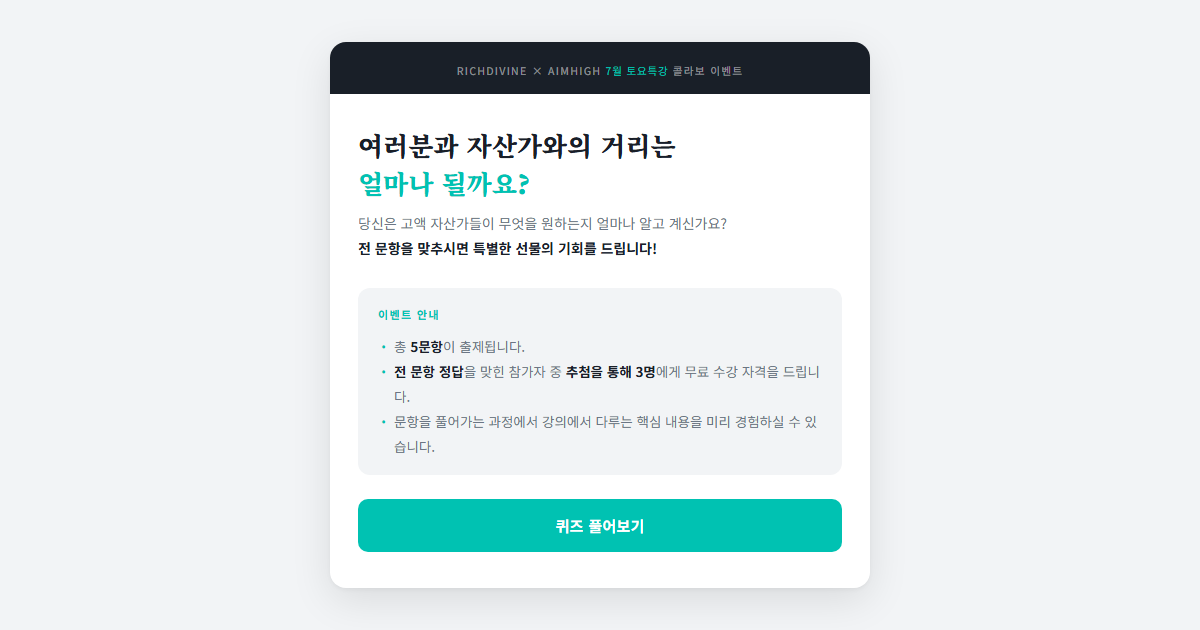
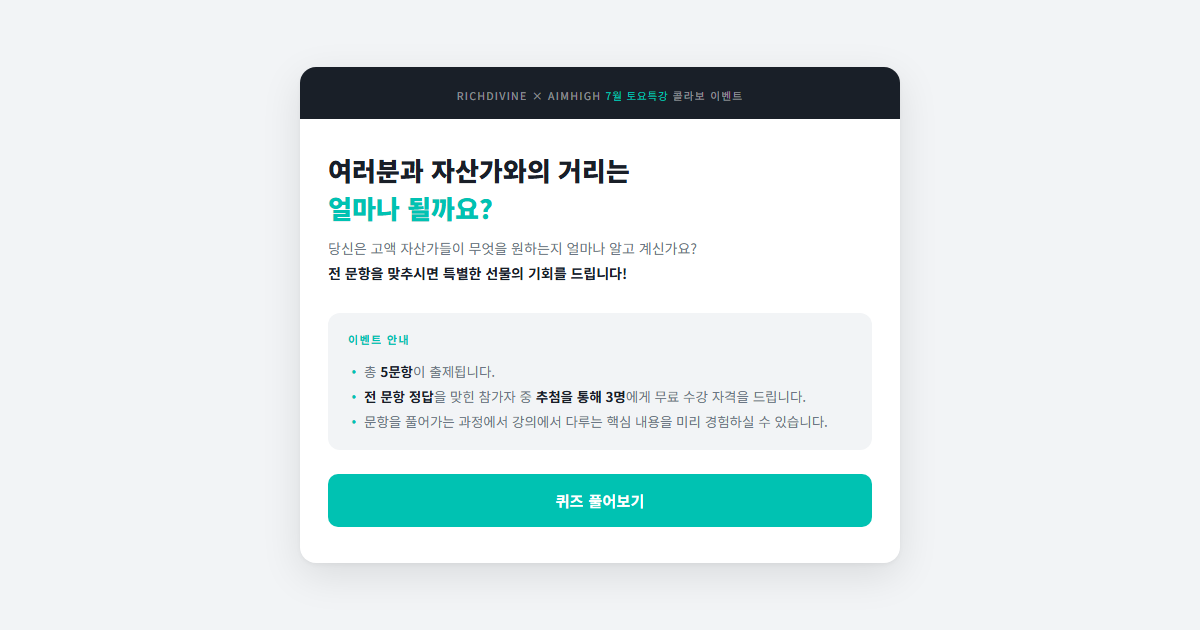
인트로 화면 다듬기: 박스 확대·한글 줄바꿈 개선·제목 고딕 폰트
- 카드 max-width 540→600px
- word-break: keep-all 로 한글 어절 단위 줄바꿈(단락 잘림 방지)
- 인트로 제목 폰트 명조→고딕(Noto Sans KR)
- 변경된 인트로 화면으로 thumbnail.png 재생성, og:image ?v=3

Changed region(s): [[0.2467, 0.0603, 0.7708, 0.4524], [0.2467, 0.7238, 0.74, 0.9349], [0.2775, 0.4825, 0.6783, 0.7238]]

diff --git a/index.html b/index.html
@@ -8,11 +8,11 @@
 <meta property="og:url"          content="https://fsc-git.github.io/RD-Quiz-Event-0624/">
 <meta property="og:title"        content="여러분과 자산가와의 거리는 얼마나 될까요?">
 <meta property="og:description"  content="전 문항을 맞추시면 특별한 선물의 기회를 드립니다!">
-<meta property="og:image"        content="https://fsc-git.github.io/RD-Quiz-Event-0624/thumbnail.png?v=2">
+<meta property="og:image"        content="https://fsc-git.github.io/RD-Quiz-Event-0624/thumbnail.png?v=3">
 <meta property="og:image:width"  content="1200">
 <meta property="og:image:height" content="630">
 <link rel="preconnect" href="https://fonts.googleapis.com">
-<link href="https://fonts.googleapis.com/css2?family=Noto+Serif+KR:wght@500;700;900&family=Noto+Sans+KR:wght@400;500;700&display=swap" rel="stylesheet">
+<link href="https://fonts.googleapis.com/css2?family=Noto+Serif+KR:wght@500;700;900&family=Noto+Sans+KR:wght@400;500;700;900&display=swap" rel="stylesheet">
 <style>
   :root {
     --bg:         #F2F4F6;
@@ -39,6 +39,7 @@
     align-items: center;
     justify-content: center;
     padding: 40px 16px;
+    word-break: keep-all;
   }
 
   /* 폭죽 캔버스 */
@@ -53,7 +54,7 @@
 
   .doc {
     width: 100%;
-    max-width: 540px;
+    max-width: 600px;
     background: var(--card);
     border-radius: 16px;
     box-shadow:
@@ -79,7 +80,7 @@
 
   /* 인트로 */
   h1.title {
-    font-family: 'Noto Serif KR', serif;
+    font-family: 'Noto Sans KR', sans-serif;
     font-weight: 900;
     font-size: 26px;
     line-height: 1.45;